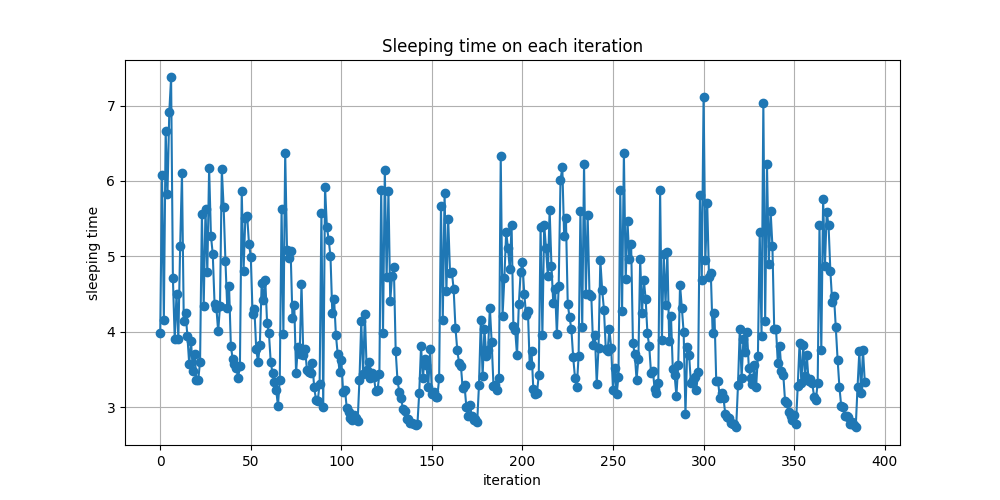
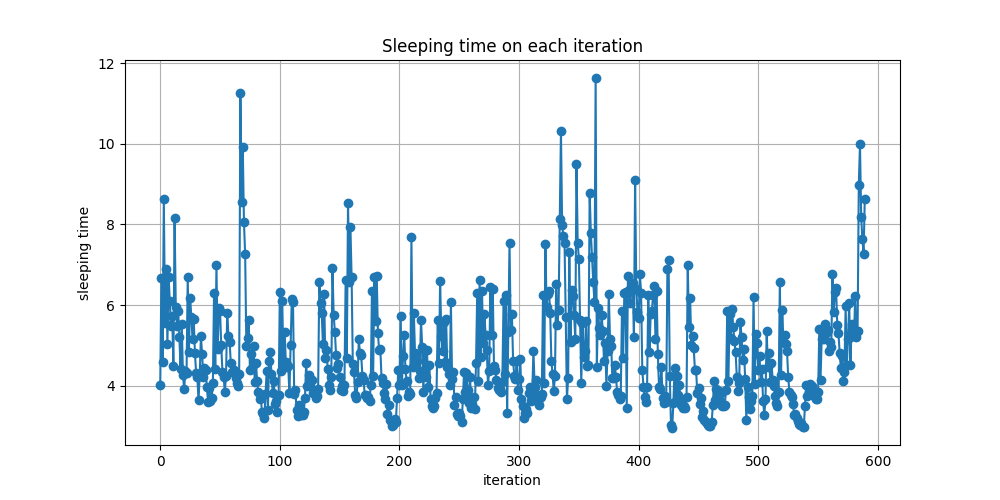
learning parameters fine tuned

diff --git a/model/actor_critic.py b/model/actor_critic.py
@@ -16,7 +16,7 @@ class ActorCritic(nn.Module):
         self.critic = get_critic()  # Critic could be None
         self.checkpoint_file = learning_config['checkpoint_file_path']
         self.reset_memory()
-        self.old_log_probs = [None for _ in range(len(self.devices))]
+        
         
         self.clip_param = learning_config['ppo_epsilon']
         self.gae_lambda = learning_config['gae_lambda']
@@ -26,10 +26,19 @@ class ActorCritic(nn.Module):
         self.states.append(state)
         self.actions.append(action)
         self.rewards.append(reward)
+         # Calculate and store log_prob immediately
+        state_tensor = torch.tensor(state, dtype=torch.float)
+        with torch.no_grad():
+            pi, _, _, _ = self.forward(state_tensor)
+            self.pis.append(pi)
+            probs = F.softmax(pi, dim=-1)
+            dist = Categorical(probs)
+            self.old_log_probs.append(dist.log_prob(torch.tensor(action)).item())
 
     # Clear memory after an episode
     def reset_memory(self):
         self.rewards, self.actions, self.states, self.pis = [], [], [], []
+        self.old_log_probs = []  
 
     # Forward pass through both actor and critic (if present)
     def forward(self, x):
@@ -88,6 +97,8 @@ class ActorCritic(nn.Module):
         probs = F.softmax(pis, dim=-1)
         dist = Categorical(probs)
 
+        # Calculate entropy bonus to prevent collapse
+        entropy = dist.entropy().mean()
         new_log_probs = dist.log_prob(actions)
 
         if learning_config['learning_algorithm'] == "ppo":
@@ -115,18 +126,28 @@ class ActorCritic(nn.Module):
         if self.critic:
             critic_loss = F.mse_loss(values, returns)
 
-        loss = actor_loss + 0.5 * critic_loss
+        entropy_coef = 0.00  # Small entropy coefficient
+        loss = actor_loss + 0.5 * critic_loss - entropy_coef * entropy
 
         return loss
-    # !! # Add method to compute GAE
     def compute_gae(self, rewards, values, next_value):
         gae = 0
         returns = []
+        
+        # Reversed GAE calculation
         for step in reversed(range(len(rewards))):
-            delta = rewards[step] + self.discount_factor * next_value - values[step]
+            if step == len(rewards) - 1:
+                next_val = next_value
+            else:
+                next_val = values[step + 1]
+                
+            delta = rewards[step] + self.discount_factor * next_val - values[step]
             gae = delta + self.discount_factor * self.gae_lambda * gae
+            
+            # Clip GAE to prevent extreme values
+            # gae = torch.clamp(gae, -10.0, 10.0)
             returns.insert(0, gae + values[step])
-            next_value = values[step]
+            
         return torch.tensor(returns)
 
     def update_regressor(self):

diff --git a/environment/state.py b/environment/state.py
@@ -94,11 +94,11 @@ class State:
             return self.apply_action(pe_ID, core_i, freq, volt, task_ID, utilization, diversity, gin)
         with self.lock:
             total_t, total_e  = calc_total(pe,task,[self.db_tasks[pre_id] for pre_id in task["predecessors"]],core_i,0)
-
+            execution_time = total_t
             if total_t > 1:
                 total_t = 1
 
-            placing_slot = (total_t, task_ID)
+            placing_slot = (execution_time, task_ID)
 
             queue_index, core_index, lag_time = self.find_place(pe_dict, core_i)
 
@@ -110,7 +110,7 @@ class State:
             if queue_index == -1 and core_index == -1:
                 fail_flags[2] = 1
 
-            if sum(fail_flags) > 0:
+            if sum(fail_flags) > 0 or (queue_index == -1 and core_index == -1):
                 return sum(fail_flags) * reward_function(punish=True), fail_flags, 0, 0
 
 
@@ -146,7 +146,7 @@ class State:
             lambda_gini = learning_config["max_lambda"] * gin
             lambda_penalty = learning_config["alpha_diversity"] * lambda_diversity + learning_config["alpha_gin"] * lambda_gini
 
-        return reward_function(t=total_t + lag_time, e=total_e) +battery_punish, fail_flags, total_e, total_t+ lag_time
+        return reward_function(t=total_t + lag_time, e=total_e) + battery_punish, fail_flags, total_e, total_t+ lag_time
 
 
     def save_agent_log(self, assigned_job, dict, path_history):

diff --git a/model/utils.py b/model/utils.py
@@ -105,7 +105,7 @@ class SharedAdam(Adam):
     to be shared across multiple processes.
     """
 
-    def __init__(self, params, lr=0.005, betas=(0.9, 0.999), eps=1e-8, weight_decay=0.0, amsgrad=False, **kwargs):
+    def __init__(self, params, lr=1e-3, betas=(0.9, 0.999), eps=1e-8, weight_decay=0.0, amsgrad=False, **kwargs):
         """
         Initializes the SharedAdam optimizer with shared states.
         
@@ -201,7 +201,6 @@ def get_num_input():
         num_input +=2
     return num_input
 
-
 def get_critic():
     num_input = get_num_input()
 
@@ -214,7 +213,8 @@ def get_critic():
         # Append hidden layers dynamically
         for _ in range(num_hidden_layers):
             layers.append(nn.Linear(critic_hidden_layer_dim, critic_hidden_layer_dim))
-            layers.append(nn.Sigmoid())
+            layers.append(nn.LayerNorm(critic_hidden_layer_dim))
+            layers.append(nn.ReLU())
 
         # Final output layer
         layers.append(nn.Linear(critic_hidden_layer_dim, 1))

diff --git a/model/agent.py b/model/agent.py
@@ -70,7 +70,7 @@ class Agent(mp.Process):
                 continue
             
             self.t_counter += 1
-            if self.t_counter >= self.time_out_counter and len(current_job["runningTasks"]) ==0 and len(current_job["remainingTasks"]) ==0 :
+            if self.t_counter >= self.time_out_counter and current_job and len(current_job["runningTasks"]) ==0 and len(current_job["remainingTasks"]) ==0 :
                 self._timeout_on_job()
                 continue
             

diff --git a/configs.py b/configs.py
@@ -160,8 +160,8 @@ learning_config = {
 
 
 environment_config = {
-    "multi_agent": 15,
+    "multi_agent": 32,
     "time_out_counter": 100,
-    "window": {"size": 100, "max_jobs": 20, "clock": 10},
+    "window": {"size": 200, "max_jobs": 40, "clock": 10},
     "display":False
 }
